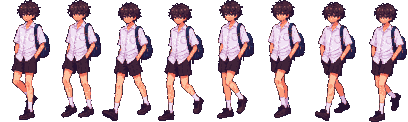
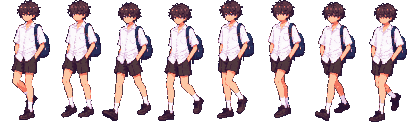
Match walk frames' colours to the idle sprite
Generated video comes out darker and flatter than the still image, so
import_walk_video.py now histogram-matches each channel of all frames
(one shared mapping, no flicker) to the reference sprite before snapping
to its palette. Median brightness 110 -> 150 (idle: 160).

Claude-Session: https://claude.ai/code/session_011NAKRUA9btL4iodwTEM3Dh

diff --git a/tools/import_walk_video.py b/tools/import_walk_video.py
@@ -2,8 +2,9 @@
 
 The video should show the character walking in place (camera fixed). The script
 takes one walk cycle, samples N frames from it, keys out the green, scales the
-frames down to the game's character height and snaps their colours to the
-palette of an existing sprite so the walk matches the idle pose.
+frames down to the game's character height and matches their colours to an
+existing sprite (histogram matching per channel, then snapping to its palette),
+because generated video usually comes out darker and flatter than the still image.
 
 Usage:
   python3 tools/import_walk_video.py VIDEO OUT.png --start 24 --cycle 32 --frames 8 \\
@@ -21,6 +22,19 @@ from PIL import Image
 def is_green(rgb):
     r, g, b = rgb[..., 0], rgb[..., 1], rgb[..., 2]
     return (g > 120) & (g > r * 1.35) & (g > b * 1.35)
+
+
+def match_histograms(pixels, reference):
+    """Remap each RGB channel of `pixels` (N,3) so its distribution matches `reference` (M,3)."""
+    out = np.empty_like(pixels)
+    for c in range(3):
+        src = pixels[:, c]
+        order = np.argsort(src)
+        ranks = np.empty_like(order)
+        ranks[order] = np.arange(len(src))
+        ref_sorted = np.sort(reference[:, c])
+        out[:, c] = ref_sorted[(ranks * (len(ref_sorted) - 1) / max(1, len(src) - 1)).astype(int)]
+    return out
 
 
 def main():
@@ -55,8 +69,8 @@ def main():
         colours = src[..., :3][src[..., 3] > 0].reshape(1, -1, 3)
         pal_img = Image.fromarray(colours.astype(np.uint8), "RGB").quantize(colors=48, method=Image.Quantize.MEDIANCUT)
 
-    sheet = Image.new("RGBA", (out_w * args.frames, args.height), (0, 0, 0, 0))
-    for i, (rgb, mask) in enumerate(zip(frames, masks)):
+    smalls = []
+    for rgb, mask in zip(frames, masks):
         rgb = rgb[y0:y1, x0:x1].copy()
         mask = mask[y0:y1, x0:x1]
         # despill green fringe
@@ -64,12 +78,30 @@ def main():
                                np.maximum(rgb[..., 0], rgb[..., 2]), rgb[..., 1])
         img = Image.fromarray(rgb.clip(0, 255).astype(np.uint8), "RGB")
         alpha = Image.fromarray((mask * 255).astype(np.uint8), "L")
-        small = img.resize((out_w, args.height), Image.BOX)
-        small_a = alpha.resize((out_w, args.height), Image.BOX).point(lambda v: 255 if v >= 128 else 0)
+        small = np.asarray(img.resize((out_w, args.height), Image.BOX)).astype(float)
+        small_a = np.asarray(alpha.resize((out_w, args.height), Image.BOX)) >= 128
+        smalls.append((small, small_a))
+
+    if args.palette:
+        # One colour mapping for all frames (so they do not flicker), learned from
+        # the character pixels of every frame against the reference sprite
+        ref = np.asarray(Image.open(args.palette).convert("RGBA")).astype(float)
+        ref_px = ref[..., :3][ref[..., 3] > 0]
+        all_px = np.concatenate([sm[a] for sm, a in smalls])
+        mapped = match_histograms(all_px, ref_px)
+        k = 0
+        for sm, a in smalls:
+            n = int(a.sum())
+            sm[a] = mapped[k:k + n]
+            k += n
+
+    sheet = Image.new("RGBA", (out_w * args.frames, args.height), (0, 0, 0, 0))
+    for i, (sm, a) in enumerate(smalls):
+        small = Image.fromarray(sm.clip(0, 255).astype(np.uint8), "RGB")
         if pal_img is not None:
             small = small.quantize(palette=pal_img, dither=Image.Dither.NONE).convert("RGB")
         frame = small.convert("RGBA")
-        frame.putalpha(small_a)
+        frame.putalpha(Image.fromarray((a * 255).astype(np.uint8), "L"))
         sheet.paste(frame, (i * out_w, 0))
     sheet.save(args.out)
     print(f"{args.frames} frames of {out_w}x{args.height} -> {args.out} (crop {x0},{y0} {x1 - x0}x{y1 - y0})")
